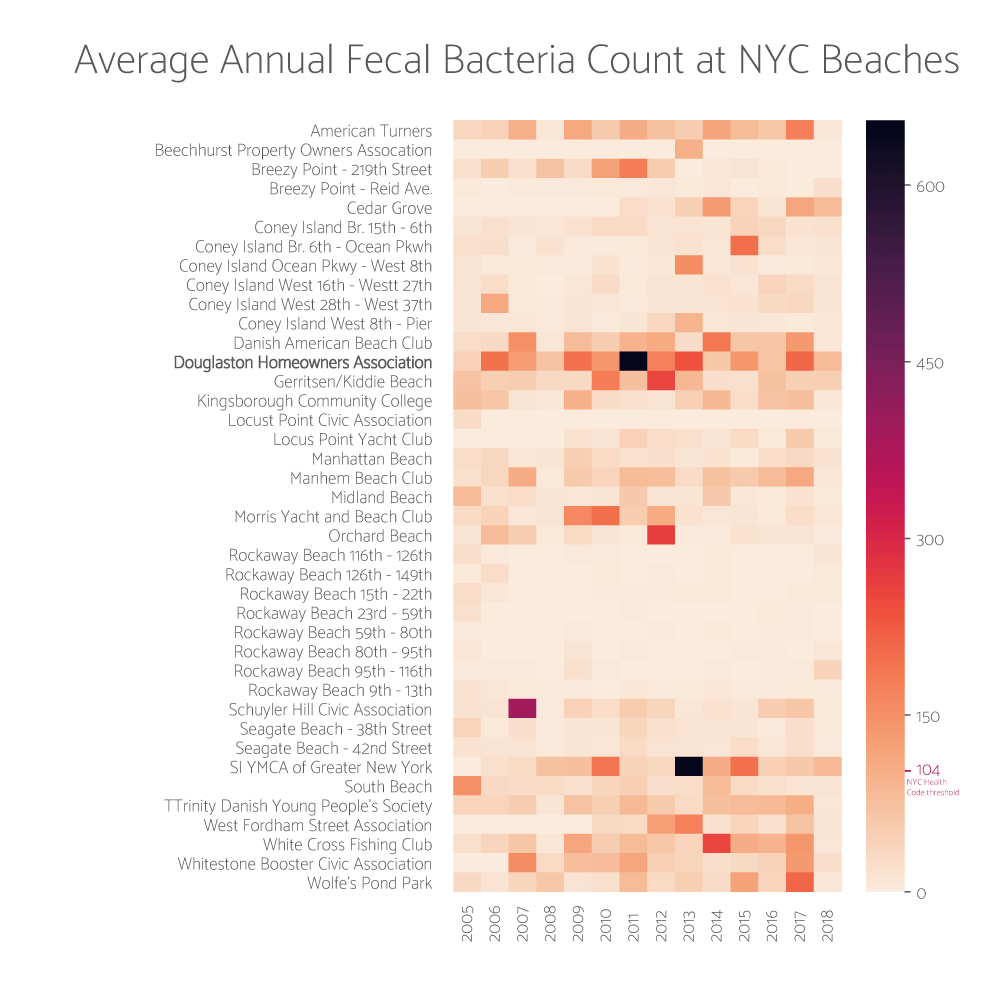
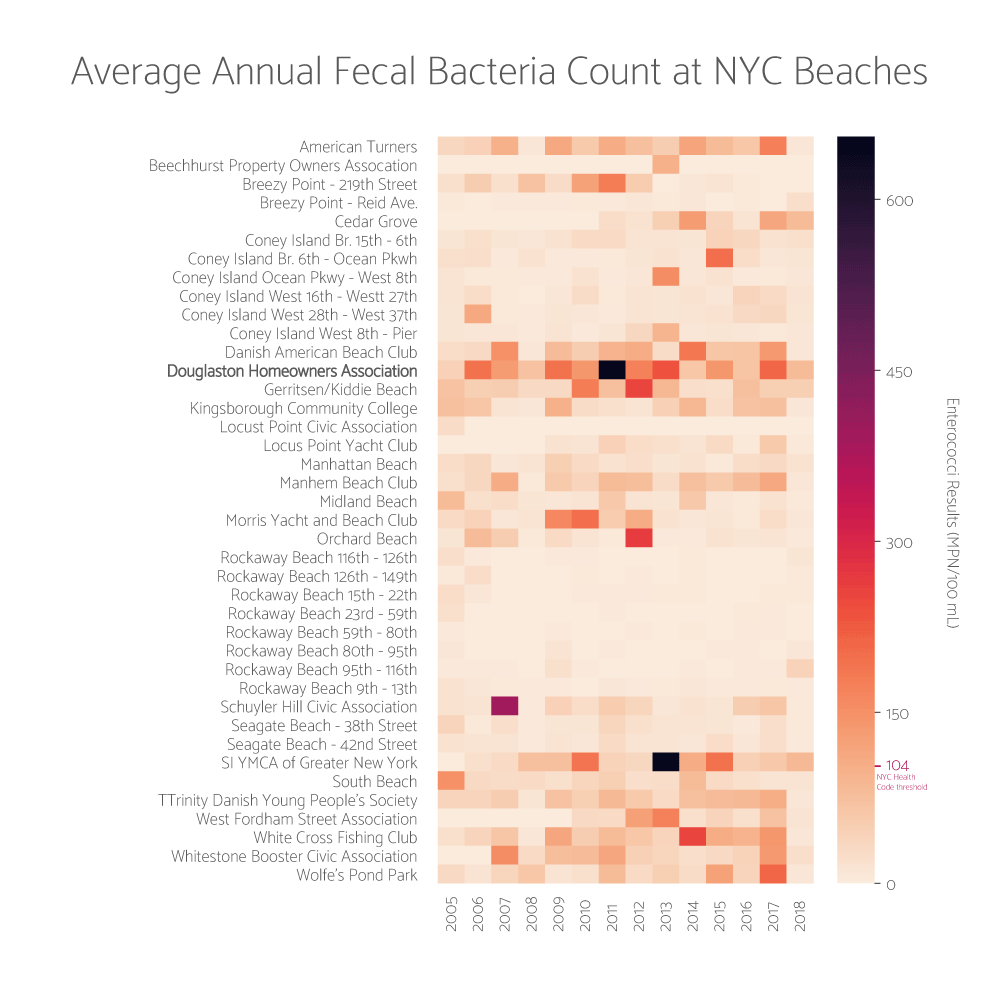
project updates

Changed region(s): [[0.155, 0.1212, 0.961, 0.9394], [0.062, 0.0303, 0.961, 0.0909]]

diff --git a/ds-nyc-beaches/index.html b/ds-nyc-beaches/index.html
@@ -23,7 +23,7 @@
     <div class="container"><!-- start of the main container-->
         <div class="row justify-content-center"><!-- headline and intro -->
             <div class="col-lg-10 ">
-                <p class="kicker super-font">EXTREMELY IMPORTANT, SUPER-LEGIT JOURNALISM</p>
+                <p class="kicker super-font">EXTREMELY IMPORTANT, SUPER LEGIT JOURNALISM</p>
                 <h1 class="headline super-font">These NYC Beaches are Literally Full of Human Shit</h1>
                 <p class="credit super-font">Angela Wang</p>
                 <p class="date sub-font">Published August 2, 2018</p>
@@ -34,19 +34,20 @@
                 </p>
             </div>
         </div>
+
         
-<!-- start of one size B image -->
-<div class="row justify-content-center"> <!-- labels/deszcriptions and three charts for mobile -->
-    <div class="col-md-10"><!-- left -->
-        <p class="label super-font">Where should you avoid swimming this year?</p>
-        <p class="label-text super-font">Most beaches on Staten Island.</p>
-        <img class="image" src="style/images/fecal_hot_spots_edited_updated.png" alt="image description">
-        <p class="note sub-font"> NOTE: DOHMH samples are taken in MPN/100 mL rather than cfu/100 mL. The units are proportionate, but the means of collecting and testing differ.<br>
-        SOURCE: <a href=https://data.cityofnewyork.us/Health/DOHMH-Beach-Water-Quality-Data/2xir-kwzz>NYC Open Data</a>)
-        </p>
+<!-- start of one size C image -->
+
+
+<div class="row justify-content-center"> 
+        <div class="col-md-10">
+            <p class="label super-font">2018's Fecal Hot Spots</p>
+            <p class="label-text super-font">Beaches with samples exceeding the NY State Sanitation Code and the NYC Health Code</p>
+        </div>
+        <img class="image" src="style/images/fecal_hot_spots_edited_udpated_notitle.png" alt="image description">
     </div>
-</div>
-<!-- end of one size B image -->        
+    
+
 
 <div class="row justify-content-center"><!-- headline and intro -->
     <div class="col-lg-10 ">
@@ -60,9 +61,9 @@
 
 <div class="row justify-content-center"> 
    <div class="col-md-10"><!-- left -->
-        <p class="label super-font">How clean are NYC's most popular beaches?</p>
-        <p class="label-text super-font">With the exception of two samples, relatively poop-free.</p>
-        <img class="image" src="style/images/coney_rockaways_2_edited.png" alt="image description">
+        <p class="label super-font">2018 Fecal Bacteria Samples at Coney Island and The Rockaways</p>
+        <p class="label-text super-font">With the exception of two samples, New York City's most popular beaches are relatively poop-free.</p>
+        <img class="image" src="style/images/coney_rockaways_2_edited_notitle.png" alt="image description">
         <p class="note sub-font"><br>
         </p>
     </div>
@@ -79,9 +80,9 @@
 <!-- start of one size B image -->
 <div class="row justify-content-center"> <!-- labels/deszcriptions and three charts for mobile -->
     <div class="col-md-10"><!-- left -->
-        <p class="label super-font">NYC beach water quality over time</p>
-        <p class="label-text super-font">Now it's easier to see which beaches tend to be cleaner overall.</p>
-        <img class="image" src="style/images/beach_yearly_heatmap_edited.png" alt="image description">
+        <p class="label super-font">Average Annual Fecal Bacteria Count at NYC Beaches</p>
+        <p class="label-text super-font">A look at what beaches tend to be historically clean or dirty.</p>
+        <img class="image" src="style/images/beach_yearly_heatmap_edited_notitle.png" alt="image description">
         <p class="note sub-font">NOTE: 2018 data is incomplete, as the year isn't over yet.
         </p>
     </div>
@@ -103,7 +104,7 @@
 <div class="row justify-content-center"> <!-- labels/deszcriptions and three charts for mobile -->
     <div class="col-md-10"><!-- left -->
         <p class="label super-font">Doulgaston Homeowners Association Bacteria Count Over Time</p>
-        <p class="label-text super-font">ASDFJA;SDIFJ;AOIWEFJ. NO.</p>
+        <p class="label-text super-font">Home to terrible, horrible, no-good, very bad swims.</p>
         <img class="image" src="style/images/douglaston_edited.png" alt="image description">
         <p class="note sub-font">
         </p>
